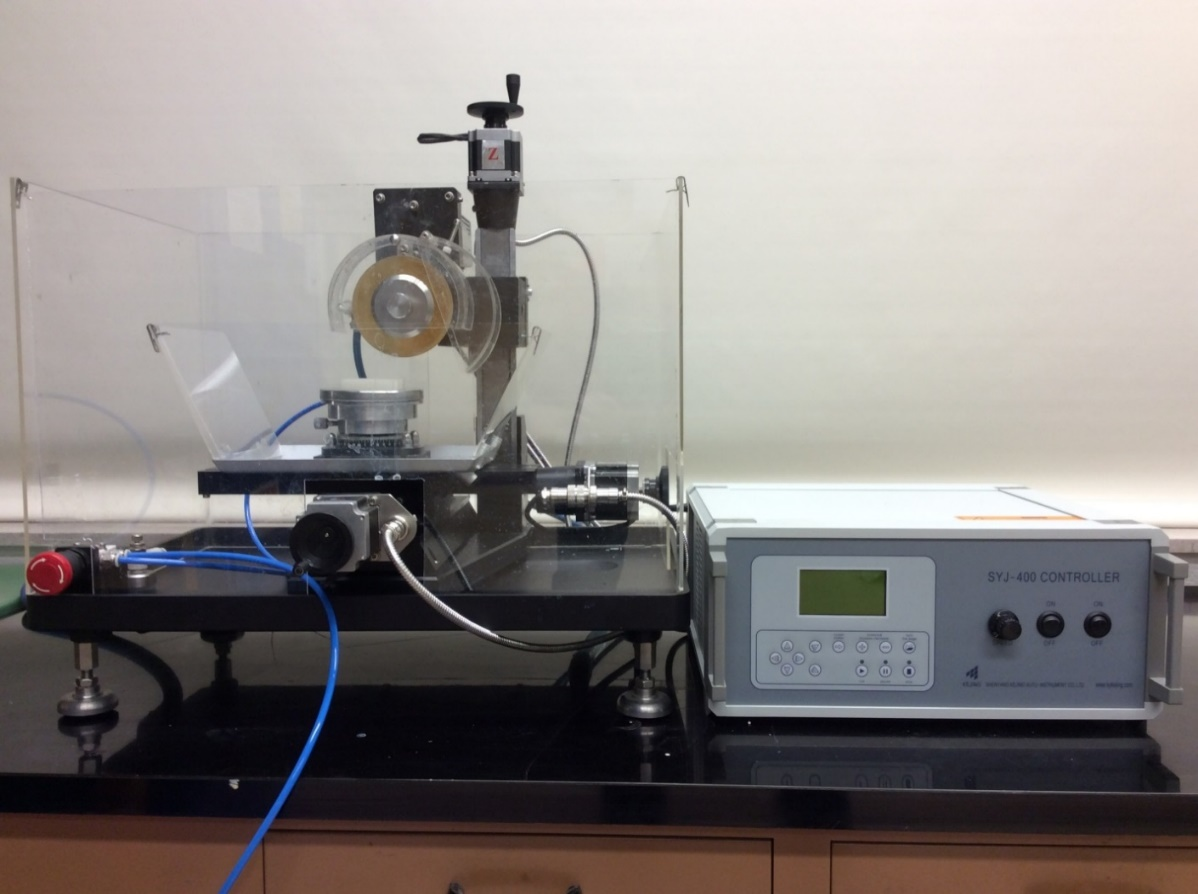
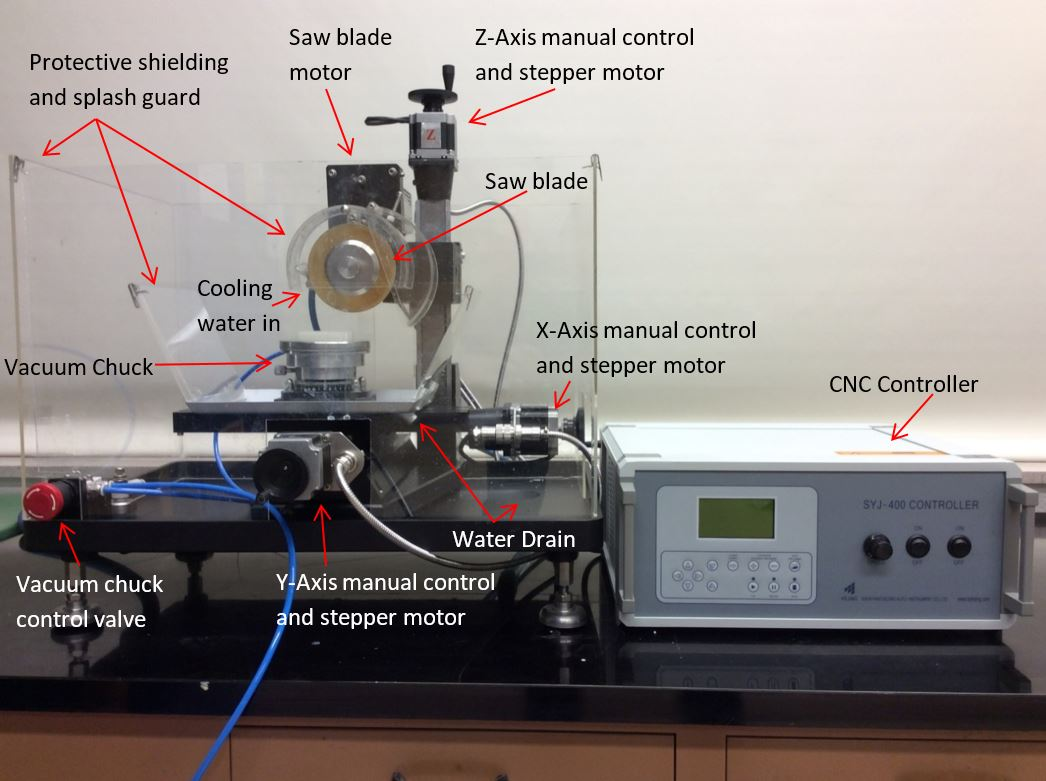
added info to mechanical processing

diff --git a/chapter4.tex b/chapter4.tex
@@ -21,7 +21,12 @@ To start, the germanium boule slice is cut into several rectangular cubes.
 Then, work proceeds using one of the cubes, saving the rest for the next time.%}}}
 % Section: Mechanical Processing%{{{
 \section{Mechanical Processing}
-
+The diamond saw under discussion is the SYJ-400 Precision CNC Dicing/Cutting Saw from Shenyang Kejing Auto-Instrument Co.
+The structure of this diamond saw is shown below in Figure \ref{fig:diamondsaw}.
+It is operated using a CNC controller with setting for the cutting speed, length, time, depth, lifting height, rest time, and movement speed.
+All of these parameters are edited using the attached CNC controller. 
+There are four separate screens with adjustable parameters that are shown with translations in Figure \ref{fig:control-screen}. 
+Each of these parameters are in millimeters or millimeters per minute depending on the operation.
 \begin{figure}[htpb]
 \centering
 \includegraphics[width=0.5\textwidth]{diamond-saw.jpg}
@@ -29,6 +34,51 @@ Then, work proceeds using one of the cubes, saving the rest for the next time.%}
 \label{fig:diamondsaw}
 \end{figure}
 
+\begin{sidewaysfigure}
+\includegraphics[width=\textwidth]{control-screen}
+\caption{These are the four settings screens and translations from the diamond saw controller.}
+\label{fig:control-screen}
+\end{sidewaysfigure}
+
+Before turning on the power to the diamond saw, it is important to take care of all of the necessary adjustments such as changing blades and placing the sample onto the vacuum chuck.
+It is important to do this before supplying power in order to prevent the saw from somehow starting itself.
+To switch blades, first remove the finger screw, labeled 1, on the outside of the splash guard covering the blade. Then remove the finger screw, labeled 2, that holds the blade clamps.
+Remove the outer blade clamp and the blade can be switched out.
+Depending on the blade size, it may be necessary to change to a larger splash guard.
+To do this, first remove finger screw 1 on the outside of the splash guard, then remove the two hex screws, labeled H, on the back plate.
+It might be necessary to remove the blade to access these screws.
+You can then install the new splash guard and blade working in the opposite order to put everything back together.
+\begin{figure}[htpb]
+\centering
+\includegraphics[width=0.5\textwidth]{blade-case}
+\caption{This is the blade and shielding on the diamond saw.}
+\label{fig:blade-case}
+\end{figure}
+
+There are currently three different blades available for cutting.
+They include: 4” electroplated diamond blade, 4” full sintered diamond blade, and a 4” grinding blade. 
+\begin{figure}[htpb]
+\centering
+\includegraphics[width=0.5\textwidth]{blades}
+\caption{Three different blade types for cutting germanium.}
+\label{fig:blades}
+\end{figure}
+
+The next step is to mount your sample onto the vacuum chuck.
+It is essential to do this before powering on the diamond saw to avoid accidents.
+Place the steel sample holder onto the vacuum chuck and adjust it so it is properly aligned.
+Powering on the vacuum will come in the next steps.
+\begin{figure}[htpb]
+\centering
+\includegraphics[width=0.5\textwidth]{cut-sample}
+\caption{A germanium sample mounted on graphite which is then mounted on a stainless steel chuck.}
+\label{fig:cut-sample}
+\end{figure}
+
+To start the diamond saw, first turn on the power strip.
+This will provide power to the vacuum pump and the up/down power converter.
+The next step is to power on the up/down converter that is located under the table that supports the diamond saw.
+This will provide a stepped up voltage to the CNC controller (which powers the saw) and the water pump.
 \begin{figure}[htpb]
 \centering
 \includegraphics[width=0.5\textwidth]{lapping.jpg}
